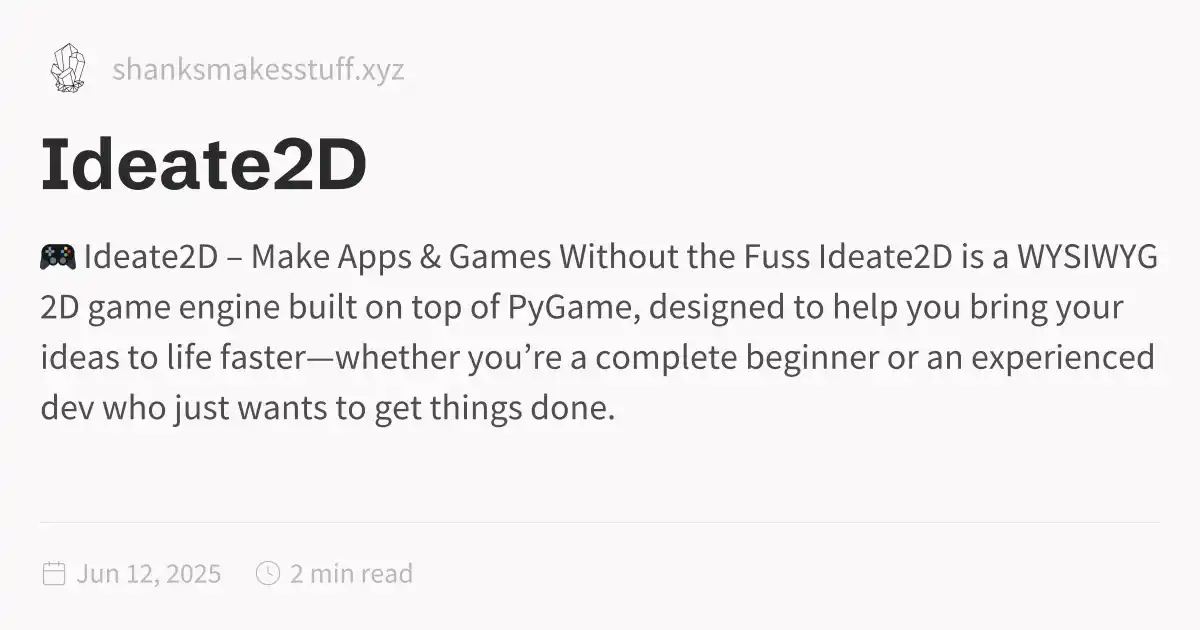
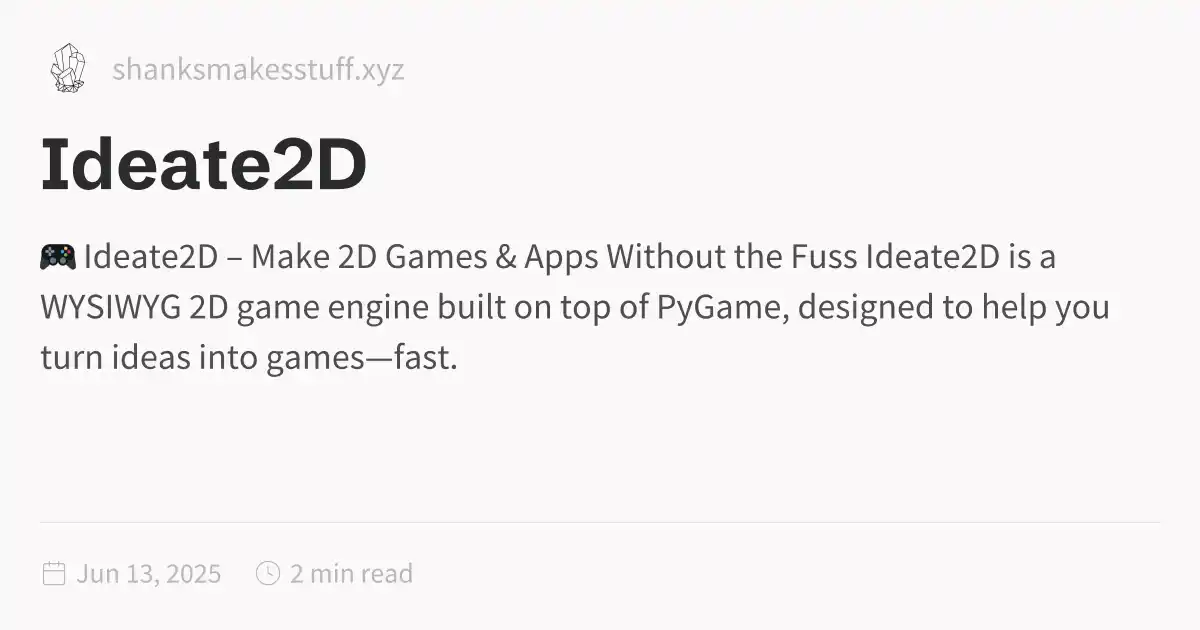
2025-06-13_1110

Changed region(s): [[0.0308, 0.3921, 0.9867, 0.5127], [0.0308, 0.5429, 0.9558, 0.6032], [0.0308, 0.6333, 0.5242, 0.6937]]

diff --git a/Ideate2D.html b/Ideate2D.html
@@ -1,5 +1,5 @@
 <!DOCTYPE html>
-<html lang="en"><head><title>Ideate2D</title><meta charset="utf-8"/><link rel="preconnect" href="https://fonts.googleapis.com"/><link rel="preconnect" href="https://fonts.gstatic.com"/><link rel="stylesheet" href="https://fonts.googleapis.com/css2?family=Schibsted Grotesk:wght@400;700&amp;family=Source Sans Pro:ital,wght@0,400;0,600;1,400;1,600&amp;family=IBM Plex Mono:wght@400;600&amp;display=swap"/><link rel="preconnect" href="https://cdnjs.cloudflare.com" crossorigin="anonymous"/><meta name="viewport" content="width=device-width, initial-scale=1.0"/><meta name="og:site_name" content="ShanksMakesStuff"/><meta property="og:title" content="Ideate2D"/><meta property="og:type" content="website"/><meta name="twitter:card" content="summary_large_image"/><meta name="twitter:title" content="Ideate2D"/><meta name="twitter:description" content="🎮 Ideate2D – Make Apps &amp; Games Without the Fuss Ideate2D is a WYSIWYG 2D game engine built on top of PyGame, designed to help you bring your ideas to life faster—whether you’re a complete beginner or an experienced dev who just wants to get things done."/><meta property="og:description" content="🎮 Ideate2D – Make Apps &amp; Games Without the Fuss Ideate2D is a WYSIWYG 2D game engine built on top of PyGame, designed to help you bring your ideas to life faster—whether you’re a complete beginner or an experienced dev who just wants to get things done."/><meta property="og:image:alt" content="🎮 Ideate2D – Make Apps &amp; Games Without the Fuss Ideate2D is a WYSIWYG 2D game engine built on top of PyGame, designed to help you bring your ideas to life faster—whether you’re a complete beginner or an experienced dev who just wants to get things done."/><meta property="twitter:domain" content="shanksmakesstuff.xyz"/><meta property="og:url" content="https://shanksmakesstuff.xyz/Ideate2D"/><meta property="twitter:url" content="https://shanksmakesstuff.xyz/Ideate2D"/><link rel="icon" href="./static/icon.png"/><meta name="description" content="🎮 Ideate2D – Make Apps &amp; Games Without the Fuss Ideate2D is a WYSIWYG 2D game engine built on top of PyGame, designed to help you bring your ideas to life faster—whether you’re a complete beginner or an experienced dev who just wants to get things done."/><meta name="generator" content="Quartz"/><link href="./index.css" rel="stylesheet" type="text/css" spa-preserve/><style>.expand-button {
+<html lang="en"><head><title>Ideate2D</title><meta charset="utf-8"/><link rel="preconnect" href="https://fonts.googleapis.com"/><link rel="preconnect" href="https://fonts.gstatic.com"/><link rel="stylesheet" href="https://fonts.googleapis.com/css2?family=Schibsted Grotesk:wght@400;700&amp;family=Source Sans Pro:ital,wght@0,400;0,600;1,400;1,600&amp;family=IBM Plex Mono:wght@400;600&amp;display=swap"/><link rel="preconnect" href="https://cdnjs.cloudflare.com" crossorigin="anonymous"/><meta name="viewport" content="width=device-width, initial-scale=1.0"/><meta name="og:site_name" content="ShanksMakesStuff"/><meta property="og:title" content="Ideate2D"/><meta property="og:type" content="website"/><meta name="twitter:card" content="summary_large_image"/><meta name="twitter:title" content="Ideate2D"/><meta name="twitter:description" content="🎮 Ideate2D – Make 2D Games &amp; Apps Without the Fuss Ideate2D is a WYSIWYG 2D game engine built on top of PyGame, designed to help you turn ideas into games—fast."/><meta property="og:description" content="🎮 Ideate2D – Make 2D Games &amp; Apps Without the Fuss Ideate2D is a WYSIWYG 2D game engine built on top of PyGame, designed to help you turn ideas into games—fast."/><meta property="og:image:alt" content="🎮 Ideate2D – Make 2D Games &amp; Apps Without the Fuss Ideate2D is a WYSIWYG 2D game engine built on top of PyGame, designed to help you turn ideas into games—fast."/><meta property="twitter:domain" content="shanksmakesstuff.xyz"/><meta property="og:url" content="https://shanksmakesstuff.xyz/Ideate2D"/><meta property="twitter:url" content="https://shanksmakesstuff.xyz/Ideate2D"/><link rel="icon" href="./static/icon.png"/><meta name="description" content="🎮 Ideate2D – Make 2D Games &amp; Apps Without the Fuss Ideate2D is a WYSIWYG 2D game engine built on top of PyGame, designed to help you turn ideas into games—fast."/><meta name="generator" content="Quartz"/><link href="./index.css" rel="stylesheet" type="text/css" spa-preserve/><style>.expand-button {
   position: absolute;
   display: flex;
   float: right;
@@ -116,35 +116,66 @@ pre:hover > .expand-button {
   padding: 0 12px;
   font-size: 14px;
 }
[1 lines of base64/hex data omitted]
-<p><strong>Ideate2D</strong> is a <em>WYSIWYG 2D game engine</em> built on top of <strong>PyGame</strong>, designed to help you bring your ideas to life faster—whether you’re a complete beginner or an experienced dev who just wants to get things done.</p>
-<p>💡 <strong>Why Ideate2D?</strong></p>
[1 lines of base64/hex data omitted]
+<p><strong>Ideate2D</strong> is a <strong>WYSIWYG 2D game engine</strong> built on top of <strong>PyGame</strong>, designed to help you turn ideas into games—fast. Whether you’re a complete beginner or a seasoned developer who just wants to skip the boilerplate, Ideate2D is here to get you building quickly.</p>
+<hr/>
+<h2 id="-why-ideate2d">💡 Why Ideate2D?<a role="anchor" aria-hidden="true" tabindex="-1" data-no-popover="true" href="#-why-ideate2d" class="internal"><svg width="18" height="18" viewBox="0 0 24 24" fill="none" stroke="currentColor" stroke-width="2" stroke-linecap="round" stroke-linejoin="round"><path d="M10 13a5 5 0 0 0 7.54.54l3-3a5 5 0 0 0-7.07-7.07l-1.72 1.71"></path><path d="M14 11a5 5 0 0 0-7.54-.54l-3 3a5 5 0 0 0 7.07 7.07l1.71-1.71"></path></svg></a></h2>
 <ul>
-<li><strong>Visual-first:</strong> <em>Draw</em> your levels with your cursor, not just lines of code.</li>
-<li><strong>Powered by PyGame:</strong> Full access to one of the most flexible Python game libraries under the hood.</li>
-<li><strong>Open Source:</strong> Modify the game engine however you like. It’s written in Python, too!</li>
-<li><strong>No setup nightmares:</strong> Get started in minutes. No bloated installs or complex configs.</li>
-<li><strong>Made for rapid prototyping:</strong> Go from idea to interactive game fast—perfect for jams, class projects, or testing wild concepts.</li>
+<li>
+<p><strong>Visual-first workflow:</strong> Design your levels and scenes by drawing directly—no need to code every element by hand.</p>
+</li>
+<li>
+<p><strong>Built on PyGame:</strong> Enjoy full access to one of Python’s most powerful game libraries.</p>
+</li>
+<li>
+<p><strong>Open source &amp; hackable:</strong> Want to dig in? It’s all Python, and you’re free to extend or tweak it however you like.</p>
+</li>
+<li>
+<p><strong>No setup headaches:</strong> Install and go. No bloated dependencies or complicated configs.</p>
+</li>
+<li>
+<p><strong>Perfect for prototyping:</strong> Go from concept to playable in minutes—ideal for game jams, class projects, or testing weird ideas.</p>
+</li>
 </ul>
-<p>Whether you’re making your first game or prototyping your next big idea, <strong>Ideate2D</strong> helps you skip the boilerplate and focus on creativity.</p>
-<h2 id="important">Important<a role="anchor" aria-hidden="true" tabindex="-1" data-no-popover="true" href="#important" class="internal"><svg width="18" height="18" viewBox="0 0 24 24" fill="none" stroke="currentColor" stroke-width="2" stroke-linecap="round" stroke-linejoin="round"><path d="M10 13a5 5 0 0 0 7.54.54l3-3a5 5 0 0 0-7.07-7.07l-1.72 1.71"></path><path d="M14 11a5 5 0 0 0-7.54-.54l-3 3a5 5 0 0 0 7.07 7.07l1.71-1.71"></path></svg></a></h2>
-<p>This software requires pygame to work. Pygame can be installed according the website: <a href="https://www.pygame.org/wiki/GettingStarted" class="external">GettingStarted - pygame wiki<svg aria-hidden="true" class="external-icon" style="max-width:0.8em;max-height:0.8em;" viewBox="0 0 512 512"><path d="M320 0H288V64h32 82.7L201.4 265.4 178.7 288 224 333.3l22.6-22.6L448 109.3V192v32h64V192 32 0H480 320zM32 32H0V64 480v32H32 456h32V480 352 320H424v32 96H64V96h96 32V32H160 32z"></path></svg></a></p>
-<p>Information on the liabilities taken for this software and terms and conditions can be found at the bottom of the README.md file supplied with this software, and at <a href="https://github.com/shashankraocoding/Ideate2D" class="external">https://github.com/shashankraocoding/Ideate2D<svg aria-hidden="true" class="external-icon" style="max-width:0.8em;max-height:0.8em;" viewBox="0 0 512 512"><path d="M320 0H288V64h32 82.7L201.4 265.4 178.7 288 224 333.3l22.6-22.6L448 109.3V192v32h64V192 32 0H480 320zM32 32H0V64 480v32H32 456h32V480 352 320H424v32 96H64V96h96 32V32H160 32z"></path></svg></a>. This software is distributed under the same license as Pygame (the  <a href="https://www.gnu.org/copyleft/lesser.html" class="external">GNU LGPL version 2.1<svg aria-hidden="true" class="external-icon" style="max-width:0.8em;max-height:0.8em;" viewBox="0 0 512 512"><path d="M320 0H288V64h32 82.7L201.4 265.4 178.7 288 224 333.3l22.6-22.6L448 109.3V192v32h64V192 32 0H480 320zM32 32H0V64 480v32H32 456h32V480 352 320H424v32 96H64V96h96 32V32H160 32z"></path></svg></a>, also supplied with this software).</p>
-<h2 id="what-you-see-is-what-you-get">What You See Is What You Get<a role="anchor" aria-hidden="true" tabindex="-1" data-no-popover="true" href="#what-you-see-is-what-you-get" class="internal"><svg width="18" height="18" viewBox="0 0 24 24" fill="none" stroke="currentColor" stroke-width="2" stroke-linecap="round" stroke-linejoin="round"><path d="M10 13a5 5 0 0 0 7.54.54l3-3a5 5 0 0 0-7.07-7.07l-1.72 1.71"></path><path d="M14 11a5 5 0 0 0-7.54-.54l-3 3a5 5 0 0 0 7.07 7.07l1.71-1.71"></path></svg></a></h2>
-<p>The end product is exactly as it appears to you in the editor. Ideate2D holds this moto at its core. You design what you want without worrying about the basics, like scaling or image management, gravity, object physics, or any of the other million things you’d rather leave to us.</p>
-<h1 id="liability">Liability<a role="anchor" aria-hidden="true" tabindex="-1" data-no-popover="true" href="#liability" class="internal"><svg width="18" height="18" viewBox="0 0 24 24" fill="none" stroke="currentColor" stroke-width="2" stroke-linecap="round" stroke-linejoin="round"><path d="M10 13a5 5 0 0 0 7.54.54l3-3a5 5 0 0 0-7.07-7.07l-1.72 1.71"></path><path d="M14 11a5 5 0 0 0-7.54-.54l-3 3a5 5 0 0 0 7.07 7.07l1.71-1.71"></path></svg></a></h1>
-<p>This project, Ideate2D, was developed as an experimental tool and is provided on an “as-is” basis. While every effort has been made to ensure the accuracy and reliability of the functions and tools provided, no guarantees or warranties are given regarding their performance, correctness, or fitness for a particular purpose.</p>
-<h1 id="important-disclaimers">Important Disclaimers:<a role="anchor" aria-hidden="true" tabindex="-1" data-no-popover="true" href="#important-disclaimers" class="internal"><svg width="18" height="18" viewBox="0 0 24 24" fill="none" stroke="currentColor" stroke-width="2" stroke-linecap="round" stroke-linejoin="round"><path d="M10 13a5 5 0 0 0 7.54.54l3-3a5 5 0 0 0-7.07-7.07l-1.72 1.71"></path><path d="M14 11a5 5 0 0 0-7.54-.54l-3 3a5 5 0 0 0 7.07 7.07l1.71-1.71"></path></svg></a></h1>
+<p>Whether it’s your <strong>first game</strong> or your <strong>next big prototype</strong>, <strong>Ideate2D</strong> helps you skip the tedium and focus on what matters: <strong>creating</strong>.</p>
+<hr/>
+<h2 id="-quick-start">⚙ Quick Start<a role="anchor" aria-hidden="true" tabindex="-1" data-no-popover="true" href="#-quick-start" class="internal"><svg width="18" height="18" viewBox="0 0 24 24" fill="none" stroke="currentColor" stroke-width="2" stroke-linecap="round" stroke-linejoin="round"><path d="M10 13a5 5 0 0 0 7.54.54l3-3a5 5 0 0 0-7.07-7.07l-1.72 1.71"></path><path d="M14 11a5 5 0 0 0-7.54-.54l-3 3a5 5 0 0 0 7.07 7.07l1.71-1.71"></path></svg></a></h2>
+<blockquote>
+<p><strong>Note:</strong> You’ll need to install <strong>PyGame</strong> to use Ideate2D.<br/>
+Check out the official guide here:<br/>
+🔗 <a href="https://www.pygame.org/wiki/GettingStarted" class="external">Getting Started – PyGame Wiki<svg aria-hidden="true" class="external-icon" style="max-width:0.8em;max-height:0.8em;" viewBox="0 0 512 512"><path d="M320 0H288V64h32 82.7L201.4 265.4 178.7 288 224 333.3l22.6-22.6L448 109.3V192v32h64V192 32 0H480 320zM32 32H0V64 480v32H32 456h32V480 352 320H424v32 96H64V96h96 32V32H160 32z"></path></svg></a></p>
+</blockquote>
+<hr/>
+<h2 id="-what-you-see-is-what-you-get">🧩 What You See Is What You Get<a role="anchor" aria-hidden="true" tabindex="-1" data-no-popover="true" href="#-what-you-see-is-what-you-get" class="internal"><svg width="18" height="18" viewBox="0 0 24 24" fill="none" stroke="currentColor" stroke-width="2" stroke-linecap="round" stroke-linejoin="round"><path d="M10 13a5 5 0 0 0 7.54.54l3-3a5 5 0 0 0-7.07-7.07l-1.72 1.71"></path><path d="M14 11a5 5 0 0 0-7.54-.54l-3 3a5 5 0 0 0 7.07 7.07l1.71-1.71"></path></svg></a></h2>
+<p><strong>Ideate2D</strong> sticks to its core philosophy: <em>What You See Is What You Get.</em><br/>
+The final game looks exactly like what you build in the editor—no surprises, no hidden steps.</p>
+<p>We’ve handled the essentials—like image scaling, object physics, gravity, and asset management—so you can focus on design, not setup.</p>
+<hr/>
+<h2 id="-license--disclaimer">📄 License &amp; Disclaimer<a role="anchor" aria-hidden="true" tabindex="-1" data-no-popover="true" href="#-license--disclaimer" class="internal"><svg width="18" height="18" viewBox="0 0 24 24" fill="none" stroke="currentColor" stroke-width="2" stroke-linecap="round" stroke-linejoin="round"><path d="M10 13a5 5 0 0 0 7.54.54l3-3a5 5 0 0 0-7.07-7.07l-1.72 1.71"></path><path d="M14 11a5 5 0 0 0-7.54-.54l-3 3a5 5 0 0 0 7.07 7.07l1.71-1.71"></path></svg></a></h2>
+<p>Ideate2D is released under the <strong><a href="https://www.gnu.org/copyleft/lesser.html" class="external">GNU LGPL v2.1<svg aria-hidden="true" class="external-icon" style="max-width:0.8em;max-height:0.8em;" viewBox="0 0 512 512"><path d="M320 0H288V64h32 82.7L201.4 265.4 178.7 288 224 333.3l22.6-22.6L448 109.3V192v32h64V192 32 0H480 320zM32 32H0V64 480v32H32 456h32V480 352 320H424v32 96H64V96h96 32V32H160 32z"></path></svg></a></strong>, the same license as PyGame. You can find full license terms in the <code>README.md</code> or visit:<br/>
+🔗 <a href="https://github.com/shashankraocoding/Ideate2D" class="external">github.com/shashankraocoding/Ideate2D<svg aria-hidden="true" class="external-icon" style="max-width:0.8em;max-height:0.8em;" viewBox="0 0 512 512"><path d="M320 0H288V64h32 82.7L201.4 265.4 178.7 288 224 333.3l22.6-22.6L448 109.3V192v32h64V192 32 0H480 320zM32 32H0V64 480v32H32 456h32V480 352 320H424v32 96H64V96h96 32V32H160 32z"></path></svg></a></p>
+<h3 id="-disclaimer">⚠ Disclaimer:<a role="anchor" aria-hidden="true" tabindex="-1" data-no-popover="true" href="#-disclaimer" class="internal"><svg width="18" height="18" viewBox="0 0 24 24" fill="none" stroke="currentColor" stroke-width="2" stroke-linecap="round" stroke-linejoin="round"><path d="M10 13a5 5 0 0 0 7.54.54l3-3a5 5 0 0 0-7.07-7.07l-1.72 1.71"></path><path d="M14 11a5 5 0 0 0-7.54-.54l-3 3a5 5 0 0 0 7.07 7.07l1.71-1.71"></path></svg></a></h3>
 <ul>
-<li>Use at Your Own Risk</li>
-<li>No Warranty: The author, and any contributors to this repository are not responsible for any errors, negligence, omissions, or damages resulting from the use or misuse of the software.</li>
-<li>By using this software, you agree to assume all risks associated with its use.</li>
+<li>
+<p><strong>Use at your own risk.</strong></p>
+</li>
+<li>
+<p><strong>No warranty provided:</strong> The author and contributors are not liable for any damages, data loss, or unintended consequences resulting from use or misuse.</p>
+</li>
+<li>
+<p>This is an <strong>experimental</strong> project and may contain bugs or incomplete features.</p>
+</li>
 </ul>
-<p>Download Link Coming Soon</p>
+<p>By using Ideate2D, you agree to the above terms.</p>
+<hr/>
+<h2 id="-download">📥 Download<a role="anchor" aria-hidden="true" tabindex="-1" data-no-popover="true" href="#-download" class="internal"><svg width="18" height="18" viewBox="0 0 24 24" fill="none" stroke="currentColor" stroke-width="2" stroke-linecap="round" stroke-linejoin="round"><path d="M10 13a5 5 0 0 0 7.54.54l3-3a5 5 0 0 0-7.07-7.07l-1.72 1.71"></path><path d="M14 11a5 5 0 0 0-7.54-.54l-3 3a5 5 0 0 0 7.07 7.07l1.71-1.71"></path></svg></a></h2>
+<p><strong>Coming Soon!</strong><br/>
+Check back for the first public release!</p>
+<hr/>
  
 	<style> 
 		.page-title { 
-			font-size: 1.70rem; 
+			font-size: 1.7rem; 
 		}
 	</style> 
 </article><hr/><div class="page-footer"></div></div><div class="right sidebar"><div class="graph"><h3>Graph View</h3><div class="graph-outer"><div class="graph-container" data-cfg="{&quot;drag&quot;:true,&quot;zoom&quot;:true,&quot;depth&quot;:1,&quot;scale&quot;:1.1,&quot;repelForce&quot;:0.5,&quot;centerForce&quot;:0.3,&quot;linkDistance&quot;:30,&quot;fontSize&quot;:0.6,&quot;opacityScale&quot;:1,&quot;showTags&quot;:true,&quot;removeTags&quot;:[],&quot;focusOnHover&quot;:false,&quot;enableRadial&quot;:false}"></div><button class="global-graph-icon" aria-label="Global Graph"><svg version="1.1" xmlns="http://www.w3.org/2000/svg" xmlns:xlink="http://www.w3.org/1999/xlink" x="0px" y="0px" viewBox="0 0 55 55" fill="currentColor" xml:space="preserve"><path d="M49,0c-3.309,0-6,2.691-6,6c0,1.035,0.263,2.009,0.726,2.86l-9.829,9.829C32.542,17.634,30.846,17,29,17
@@ -157,6 +188,6 @@ pre:hover > .expand-button {
                 C46.042,11.405,47.451,12,49,12c3.309,0,6-2.691,6-6S52.309,0,49,0z M11,9c0-1.103,0.897-2,2-2s2,0.897,2,2s-0.897,2-2,2
                 S11,10.103,11,9z M6,51c-2.206,0-4-1.794-4-4s1.794-4,4-4s4,1.794,4,4S8.206,51,6,51z M33,49c0,2.206-1.794,4-4,4s-4-1.794-4-4
                 s1.794-4,4-4S33,46.794,33,49z M29,31c-3.309,0-6-2.691-6-6s2.691-6,6-6s6,2.691,6,6S32.309,31,29,31z M47,41c0,1.103-0.897,2-2,2
-                s-2-0.897-2-2s0.897-2,2-2S47,39.897,47,41z M49,10c-2.206,0-4-1.794-4-4s1.794-4,4-4s4,1.794,4,4S51.206,10,49,10z"></path></svg></button></div><div class="global-graph-outer"><div class="global-graph-container" data-cfg="{&quot;drag&quot;:true,&quot;zoom&quot;:true,&quot;depth&quot;:-1,&quot;scale&quot;:0.9,&quot;repelForce&quot;:0.5,&quot;centerForce&quot;:0.2,&quot;linkDistance&quot;:30,&quot;fontSize&quot;:0.6,&quot;opacityScale&quot;:1,&quot;showTags&quot;:true,&quot;removeTags&quot;:[],&quot;focusOnHover&quot;:true,&quot;enableRadial&quot;:true}"></div></div></div><div class="toc desktop-only"><button type="button" class="toc-header" aria-controls="toc-content" aria-expanded="true"><h3>Table of Contents</h3><svg xmlns="http://www.w3.org/2000/svg" width="24" height="24" viewBox="0 0 24 24" fill="none" stroke="currentColor" stroke-width="2" stroke-linecap="round" stroke-linejoin="round" class="fold"><polyline points="6 9 12 15 18 9"></polyline></svg></button><ul class="toc-content overflow" id="list-1"><li class="depth-0"><a href="#-ideate2d--make-apps--games-without-the-fuss" data-for="-ideate2d--make-apps--games-without-the-fuss">🎮 Ideate2D – Make Apps &amp; Games Without the Fuss</a></li><li class="depth-1"><a href="#important" data-for="important">Important</a></li><li class="depth-1"><a href="#what-you-see-is-what-you-get" data-for="what-you-see-is-what-you-get">What You See Is What You Get</a></li><li class="depth-0"><a href="#liability" data-for="liability">Liability</a></li><li class="depth-0"><a href="#important-disclaimers" data-for="important-disclaimers">Important Disclaimers:</a></li><li class="overflow-end"></li></ul></div></div><footer class><p>Created with <a href="https://quartz.jzhao.xyz/">Quartz v4.5.1</a> © 2025</p><ul><li><a href="https://github.com/jackyzha0/quartz">GitHub</a></li><li><a href="https://discord.gg/cRFFHYye7t">Discord Community</a></li></ul></footer></div></div></body><script type="application/javascript">function n(){let t=this.parentElement;t.classList.toggle("is-collapsed");let e=t.getElementsByClassName("callout-content")[0];if(!e)return;let l=t.classList.contains("is-collapsed");e.style.gridTemplateRows=l?"0fr":"1fr"}function c(){let t=document.getElementsByClassName("callout is-collapsible");for(let e of t){let l=e.getElementsByClassName("callout-title")[0],s=e.getElementsByClassName("callout-content")[0];if(!l||!s)continue;l.addEventListener("click",n),window.addCleanup(()=>l.removeEventListener("click",n));let o=e.classList.contains("is-collapsed");s.style.gridTemplateRows=o?"0fr":"1fr"}}document.addEventListener("nav",c);
+                s-2-0.897-2-2s0.897-2,2-2S47,39.897,47,41z M49,10c-2.206,0-4-1.794-4-4s1.794-4,4-4s4,1.794,4,4S51.206,10,49,10z"></path></svg></button></div><div class="global-graph-outer"><div class="global-graph-container" data-cfg="{&quot;drag&quot;:true,&quot;zoom&quot;:true,&quot;depth&quot;:-1,&quot;scale&quot;:0.9,&quot;repelForce&quot;:0.5,&quot;centerForce&quot;:0.2,&quot;linkDistance&quot;:30,&quot;fontSize&quot;:0.6,&quot;opacityScale&quot;:1,&quot;showTags&quot;:true,&quot;removeTags&quot;:[],&quot;focusOnHover&quot;:true,&quot;enableRadial&quot;:true}"></div></div></div><div class="toc desktop-only"><button type="button" class="toc-header" aria-controls="toc-content" aria-expanded="true"><h3>Table of Contents</h3><svg xmlns="http://www.w3.org/2000/svg" width="24" height="24" viewBox="0 0 24 24" fill="none" stroke="currentColor" stroke-width="2" stroke-linecap="round" stroke-linejoin="round" class="fold"><polyline points="6 9 12 15 18 9"></polyline></svg></button><ul class="toc-content overflow" id="list-1"><li class="depth-0"><a href="#-ideate2d--make-2d-games--apps-without-the-fuss" data-for="-ideate2d--make-2d-games--apps-without-the-fuss">🎮 Ideate2D – Make 2D Games &amp; Apps Without the Fuss</a></li><li class="depth-1"><a href="#-why-ideate2d" data-for="-why-ideate2d">💡 Why Ideate2D?</a></li><li class="depth-1"><a href="#-quick-start" data-for="-quick-start">⚙ Quick Start</a></li><li class="depth-1"><a href="#-what-you-see-is-what-you-get" data-for="-what-you-see-is-what-you-get">🧩 What You See Is What You Get</a></li><li class="depth-1"><a href="#-license--disclaimer" data-for="-license--disclaimer">📄 License &amp; Disclaimer</a></li><li class="depth-2"><a href="#-disclaimer" data-for="-disclaimer">⚠ Disclaimer:</a></li><li class="depth-1"><a href="#-download" data-for="-download">📥 Download</a></li><li class="overflow-end"></li></ul></div></div><footer class><p>Created with <a href="https://quartz.jzhao.xyz/">Quartz v4.5.1</a> © 2025</p><ul><li><a href="https://github.com/jackyzha0/quartz">GitHub</a></li><li><a href="https://discord.gg/cRFFHYye7t">Discord Community</a></li></ul></footer></div></div></body><script type="application/javascript">function n(){let t=this.parentElement;t.classList.toggle("is-collapsed");let e=t.getElementsByClassName("callout-content")[0];if(!e)return;let l=t.classList.contains("is-collapsed");e.style.gridTemplateRows=l?"0fr":"1fr"}function c(){let t=document.getElementsByClassName("callout is-collapsible");for(let e of t){let l=e.getElementsByClassName("callout-title")[0],s=e.getElementsByClassName("callout-content")[0];if(!l||!s)continue;l.addEventListener("click",n),window.addCleanup(()=>l.removeEventListener("click",n));let o=e.classList.contains("is-collapsed");s.style.gridTemplateRows=o?"0fr":"1fr"}}document.addEventListener("nav",c);
 </script><script type="module">function f(i,e){if(!i)return;function r(o){o.target===this&&(o.preventDefault(),o.stopPropagation(),e())}function t(o){o.key.startsWith("Esc")&&(o.preventDefault(),e())}i?.addEventListener("click",r),window.addCleanup(()=>i?.removeEventListener("click",r)),document.addEventListener("keydown",t),window.addCleanup(()=>document.removeEventListener("keydown",t))}function y(i){for(;i.firstChild;)i.removeChild(i.firstChild)}var h=class{constructor(e,r){this.container=e;this.content=r;this.setupEventListeners(),this.setupNavigationControls(),this.resetTransform()}isDragging=!1;startPan={x:0,y:0};currentPan={x:0,y:0};scale=1;MIN_SCALE=.5;MAX_SCALE=3;cleanups=[];setupEventListeners(){let e=this.onMouseDown.bind(this),r=this.onMouseMove.bind(this),t=this.onMouseUp.bind(this),o=this.resetTransform.bind(this);this.container.addEventListener("mousedown",e),document.addEventListener("mousemove",r),document.addEventListener("mouseup",t),window.addEventListener("resize",o),this.cleanups.push(()=>this.container.removeEventListener("mousedown",e),()=>document.removeEventListener("mousemove",r),()=>document.removeEventListener("mouseup",t),()=>window.removeEventListener("resize",o))}cleanup(){for(let e of this.cleanups)e()}setupNavigationControls(){let e=document.createElement("div");e.className="mermaid-controls";let r=this.createButton("+",()=>this.zoom(.1)),t=this.createButton("-",()=>this.zoom(-.1)),o=this.createButton("Reset",()=>this.resetTransform());e.appendChild(t),e.appendChild(o),e.appendChild(r),this.container.appendChild(e)}createButton(e,r){let t=document.createElement("button");return t.textContent=e,t.className="mermaid-control-button",t.addEventListener("click",r),window.addCleanup(()=>t.removeEventListener("click",r)),t}onMouseDown(e){e.button===0&&(this.isDragging=!0,this.startPan={x:e.clientX-this.currentPan.x,y:e.clientY-this.currentPan.y},this.container.style.cursor="grabbing")}onMouseMove(e){this.isDragging&&(e.preventDefault(),this.currentPan={x:e.clientX-this.startPan.x,y:e.clientY-this.startPan.y},this.updateTransform())}onMouseUp(){this.isDragging=!1,this.container.style.cursor="grab"}zoom(e){let r=Math.min(Math.max(this.scale+e,this.MIN_SCALE),this.MAX_SCALE),t=this.content.getBoundingClientRect(),o=t.width/2,n=t.height/2,c=r-this.scale;this.currentPan.x-=o*c,this.currentPan.y-=n*c,this.scale=r,this.updateTransform()}updateTransform(){this.content.style.transform=`translate(${this.currentPan.x}px, ${this.currentPan.y}px) scale(${this.scale})`}resetTransform(){this.scale=1;let e=this.content.querySelector("svg");this.currentPan={x:e.getBoundingClientRect().width/2,y:e.getBoundingClientRect().height/2},this.updateTransform()}},C=["--secondary","--tertiary","--gray","--light","--lightgray","--highlight","--dark","--darkgray","--codeFont"],E;document.addEventListener("nav",async()=>{let e=document.querySelector(".center").querySelectorAll("code.mermaid");if(e.length===0)return;E||=await import("https://cdnjs.cloudflare.com/ajax/libs/mermaid/11.4.0/mermaid.esm.min.mjs");let r=E.default,t=new WeakMap;for(let n of e)t.set(n,n.innerText);async function o(){for(let s of e){s.removeAttribute("data-processed");let a=t.get(s);a&&(s.innerHTML=a)}let n=C.reduce((s,a)=>(s[a]=window.getComputedStyle(document.documentElement).getPropertyValue(a),s),{}),c=document.documentElement.getAttribute("saved-theme")==="dark";r.initialize({startOnLoad:!1,securityLevel:"loose",theme:c?"dark":"base",themeVariables:{fontFamily:n["--codeFont"],primaryColor:n["--light"],primaryTextColor:n["--darkgray"],primaryBorderColor:n["--tertiary"],lineColor:n["--darkgray"],secondaryColor:n["--secondary"],tertiaryColor:n["--tertiary"],clusterBkg:n["--light"],edgeLabelBackground:n["--highlight"]}}),await r.run({nodes:e})}await o(),document.addEventListener("themechange",o),window.addCleanup(()=>document.removeEventListener("themechange",o));for(let n=0;n<e.length;n++){let v=function(){let g=l.querySelector("#mermaid-space"),m=l.querySelector(".mermaid-content");if(!m)return;y(m);let w=c.querySelector("svg").cloneNode(!0);m.appendChild(w),l.classList.add("active"),g.style.cursor="grab",u=new h(g,m)},M=function(){l.classList.remove("active"),u?.cleanup(),u=null},c=e[n],s=c.parentElement,a=s.querySelector(".clipboard-button"),d=s.querySelector(".expand-button"),p=window.getComputedStyle(a),L=a.offsetWidth+parseFloat(p.marginLeft||"0")+parseFloat(p.marginRight||"0");d.style.right=`calc(${L}px + 0.3rem)`,s.prepend(d);let l=s.querySelector("#mermaid-container");if(!l)return;let u=null;d.addEventListener("click",v),f(l,M),window.addCleanup(()=>{u?.cleanup(),d.removeEventListener("click",v)})}});
 </script><script src="https://cdn.jsdelivr.net/npm/katex@0.16.11/dist/contrib/copy-tex.min.js" type="application/javascript"></script><script src="./postscript.js" type="module"></script></html>
